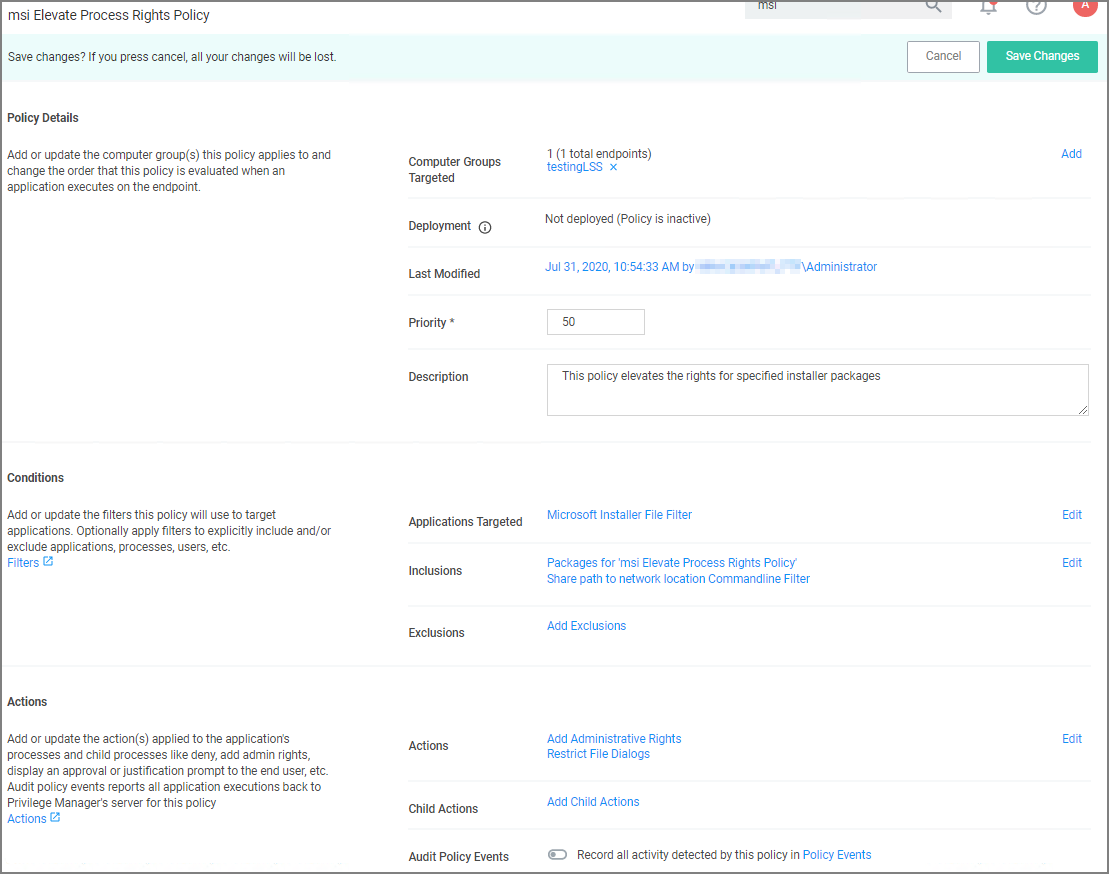
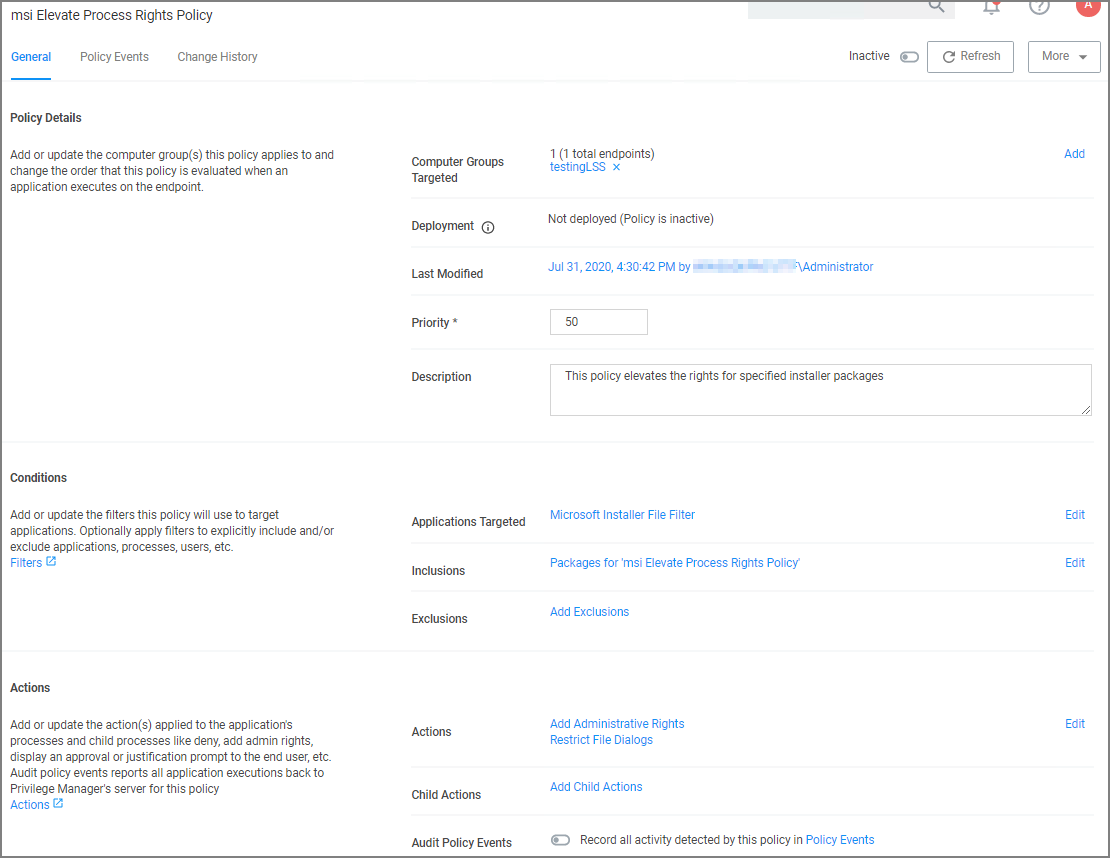
updates based on review feedback

diff --git a/computer-groups/app-control/examples/elevate/msi.md b/computer-groups/app-control/examples/elevate/msi.md
@@ -8,7 +8,7 @@ A wizard generated UNC or Network Share Path Elevation Policy elevates .exe file
 When launching an .msi file, the following command line is executed:
 
 ```cmd
-C:\Windows\System32\msiexec.exe /i "\[path-to-network-share]\[file]"
+C:\Windows\System32\msiexec.exe /i "\\[path-to-network-share]\[file]"
 ```
 
 This means that the application is not elevated because the msiexec.exe file is not in the elevated Network Share directory.
@@ -26,7 +26,7 @@ In order to enable elevation for .msi files on the network share, a command line
 1. Give this filter a custom name and description.
 1. Click __Create__.
 1. Under __Settings | Match Type__, select __Partial Match__.
-1. In the Command line field, enter the network share path that needs to be elevated (such as `\share\folder_path`).
+1. In the Command line field, enter the network share path that needs to be elevated (such as `\\share\folder_path`).
 
    ![path](images/msi/msi-1.png "Share path to network location")
 1. Click __Save Changes__.
@@ -54,16 +54,17 @@ An application control policy can be created that targets "msiexec.exe" and uses
    1. Click __Next Step__.
 1. On the Finalize the Policy page, enter a name for your new policy. The policy will be created with a default priority of 50, since it is a silent elevation policy.
 1. Click __Create Policy__.
-1. Under __Conditions__, click __Edit__.
-1. Search and add the network share path filter previously created.
-1. Click __Update__.
 
    ![final](images/msi/msi-6.png "Finalized policy")
+1. Click the __Packages for 'msi Elevate Process Rights Policy'__ Filter and under __Settings__ search for and add the __\\share\to-path__ filter previously created.
+
+   ![add filter](images/msi/msi-7.png "Adding \\share\... filter as secondary to policy created filter")
 1. Click __Save Changes__.
+1. Set the __Inactive__ switch to __Active__.
 
 MSI files in the network share will be elevated.
 
-Adding the Secondary File Filter created to the Applications Targets under Conditions of the Policy will catch all instances where `.msi` files are run from `\share\folder_path`. Only msiexec.exe will run .msi files, so the Secondary File Filter can be added to an Elevation Policy that has other Application Targets.
+Adding the Secondary File Filter created to the Applications Targets under Conditions of the Policy will catch all instances where `.msi` files are run from `\\share\folder_path`. Only msiexec.exe will run .msi files, so the Secondary File Filter can be added to an Elevation Policy that has other Application Targets.
 
 An Elevation Policy can be built with this Secondary File Filter as the Application Target and add the built-in Microsoft Installer File Filter as an Inclusion Filter to specifically target msiexec.exe runs an .msi from
-`\share\folder_path\`.
+`\\share\folder_path\`.
